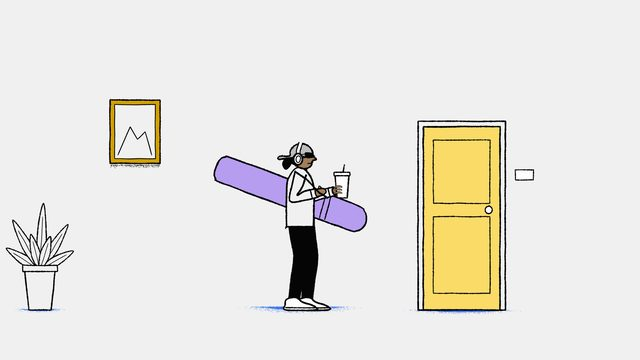
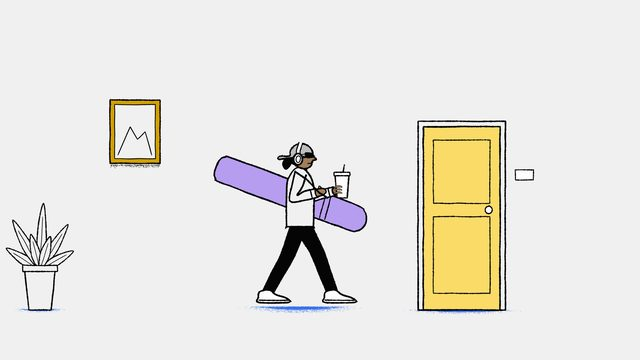
fix: walk-cycle-bag이 멈출 때 발이 바닥에서 미끄러지지 않음 (#58)
#42 검토에서 남긴 원래 문제다. 미끄러짐은 두 군데서 생겼다.
- 멈춘 뒤에도 배경이 0.33초 동안 72 px 더 흘렀다. 그래서 디딘 발 밑의 바닥이 계속 움직였다. 이제 배경은 멈춤의 첫 그림에서 함께 멈추고, 감속은 몸의 지나침 그림이 맡는다.
- 멈춤 사이 그림이 걷던 발과 모은 발을 섞어 발이 미끄러졌다. 이제 걷던 보폭 그대로 서고, 몸만 그 위로 일어선다. 마시기 동안에도 같은 보폭이다.

확인: 116–150프레임 시트에서 120프레임부터 두 발이 같은 자리다. drawings.py 73장 12/s, check_pure 1/1.

Claude-Session: https://claude.ai/code/session_01SxpfC2T1LyEk5ytvqY9P1D

Changed region(s): [[0.375, 0.6417, 0.5625, 0.8861]]

diff --git a/IBM/scenes/acting/walk-cycle-bag.html b/IBM/scenes/acting/walk-cycle-bag.html
@@ -14,14 +14,14 @@
 <script src="../../kit/props/handheld.js"></script>
 <script>
 /* 헤드폰을 쓰고 긴 가방을 멘 사람이 컵을 들고 복도를 걸어가다 노란 문 앞에서 멈춰 한 모금 마신다. 원본에 없는 창작 장면으로, 원본의 걷기(2프레임에 한 장)와 탠덤 스팟의 흐르는 배경을 한 인물의 걷기 사이클로 옮겼다. 전달하는 생각: 인물은 제자리에서 걷고 세상이 뒤로 흐른다.
-   Motion notes: travelling shot, figure fixed at x=900, 520 px tall, line 3.7 px (IB.figLine). Walk cycle = 12 drawn poses on twos, 1.0 s per two steps; each step carries the body 0.42 h, so the props scroll at 0.84 h/s = 437 px/s on ones (the drawing steps, the world glides: STYLE "카메라, 스크롤만 1프레임 단위"). Stance foot: heel strike with the toe up 0.35 rad, flat by 15% of the stance, heel peels up to 0.6 rad over the last 25%; swing foot lifts 0.085 h on a half sine. Hip is lowest at each contact and rises 0.028 h at mid-stance. The arms do not swing because both hands are busy (cup, strap): only the bag bounces, one pose behind the hip. Stop at 5.0 s on a contact pose: two in-betweens on twos, one drawing where the body carries on past the standing pose (hips and hands 16 px forward, leaning 0.08 rad, feet planted) and the standing pose while the scroll runs out over 0.33 s (outQuad, 72 px), then the bag's shake marks flicker for 4 drawings and everything holds dead still for 0.6 s. Sip: the cup dips 0.12 of the way down first (5.92 s), comes up in one in-between to the mouth at 6.08 s, held 1 s, back down in 3 drawings with one below its resting place; nothing else moves. Every drawing passes the one before it as pose.prev: the head trails the stop and the sip by one drawing. Floor = one chalk smear that stays under the feet; the wall is only what hangs on it. Three colours: the bag (#b79df0, the purple of the production still, not a film-palette colour), mustard frames, the yellow door. */
+   Motion notes: travelling shot, figure fixed at x=900, 520 px tall, line 3.7 px (IB.figLine). Walk cycle = 12 drawn poses on twos, 1.0 s per two steps; each step carries the body 0.42 h, so the props scroll at 0.84 h/s = 437 px/s on ones (the drawing steps, the world glides: STYLE "카메라, 스크롤만 1프레임 단위"). Stance foot: heel strike with the toe up 0.35 rad, flat by 15% of the stance, heel peels up to 0.6 rad over the last 25%; swing foot lifts 0.085 h on a half sine. Hip is lowest at each contact and rises 0.028 h at mid-stance. The arms do not swing because both hands are busy (cup, strap): only the bag bounces, one pose behind the hip. Stop at 5.0 s on a contact pose: two in-betweens on twos, one drawing where the body carries on past the standing pose (hips and hands 16 px forward, leaning 0.08 rad, feet planted) and the standing pose, standing in the stride she stopped in (both feet stay where the contact drawing put them, so neither slides); the scroll stops on the stop's first drawing, so the floor under the planted feet does not slide on (an earlier version let it run out 72 px, and the feet skated), and the body's overshoot carries the deceleration; then the bag's shake marks flicker for 4 drawings and everything holds dead still for 0.6 s. Sip: the cup dips 0.12 of the way down first (5.92 s), comes up in one in-between to the mouth at 6.08 s, held 1 s, back down in 3 drawings with one below its resting place; nothing else moves. Every drawing passes the one before it as pose.prev: the head trails the stop and the sip by one drawing. Floor = one chalk smear that stays under the feet; the wall is only what hangs on it. Three colours: the bag (#b79df0, the purple of the production still, not a film-palette colour), mustard frames, the yellow door. */
 const { prog, lerp } = MG;
 const F = IB.FIG, FLOOR = 930, X0 = 900;
 const WHO = { ...IB.PEOPLE.walker, h: 520, dir: 1, seed: 40 };
-const CYCLE = 1.0, STEP = 0.21 * WHO.h, SPEED = (4 * STEP) / CYCLE, STOP = 5.0, RUNOUT = 0.33;
+const CYCLE = 1.0, STEP = 0.21 * WHO.h, SPEED = (4 * STEP) / CYCLE, STOP = 5.0, SETTLE = 0.33;   // SETTLE: when the bag has swung to a stop after the feet
 
 // distance the world has scrolled by time t (ones): constant speed, then a short run-out
-const travel = (t) => (t < STOP ? SPEED * t : SPEED * STOP + SPEED * RUNOUT * 0.5 * prog(t, STOP, RUNOUT, 'outQuad'));
+const travel = (t) => SPEED * Math.min(t, STOP);   // the world stops on the stop's first drawing: a scroll that ran on would slide the floor under her planted feet
 const END = travel(99);
 
 const walkPose = (ph) => carry(IB.walk(X0, FLOOR, WHO, ph), 0);   // the cycle itself is the kit's (IB.walk); this figure only adds what it carries
@@ -34,16 +34,19 @@ function carry(p, sip) {
   p.nod = -0.16 * sip;
   return p;
 }
+// she stops in the stride she was in: both feet stay where the contact drawing put them (flat), and the body comes upright over them. Mixing to feet together would slide them along the floor.
+const F0 = IB.walk(X0, FLOOR, WHO, 0).feet.map(([x]) => [x, FLOOR - F.ankle * WHO.h, 0]);
+const standAt = () => ({ ...IB.stand(X0, FLOOR, WHO), feet: F0.map((f) => f.slice()) });
 function poseAt(t) {
   const tt = IB.twos(t);
   if (tt < STOP) return walkPose((travel(tt) / (4 * STEP)) % 1);
   // the stop: two in-betweens, then one drawing where the body carries on past the standing pose (u 1.08: hips and hands forward, feet planted) before it settles back
-  const stand = carry(IB.stand(X0, FLOOR, WHO), 0), k = IB.drawn(tt, STOP);
+  const stand = carry(standAt(), 0), k = IB.drawn(tt, STOP);
   if (k < 2) return carry(IB.poseMix(walkPose(0), stand, [0.45, 0.8][k]), 0);
-  if (k === 2) { const p = IB.stand(X0, FLOOR, WHO); p.hip = [X0 + 0.03 * WHO.h, p.hip[1] + 3]; p.lean = 0.08; return carry(p, 0); }   // the body carries on past standing: hips 16 px forward over planted feet, leaning in
+  if (k === 2) { const p = standAt(); p.hip = [X0 + 0.03 * WHO.h, p.hip[1] + 3]; p.lean = 0.08; return carry(p, 0); }   // the body carries on past standing: hips 16 px forward over planted feet, leaning in
   // the sip: the cup dips first (anticipation), comes up in one in-between, is held; on the way down it drops a little below where it rests and comes back
   const sip = tt < 6 - 1 / 12 - 1e-6 ? 0 : tt < 7.08 ? IB.inbetween([-0.12, 0.55, 1], IB.drawn(tt, 6 - 1 / 12)) : IB.inbetween([0.45, -0.08, 0], IB.drawn(tt, 7.08));
-  return carry(IB.stand(X0, FLOOR, WHO), sip);
+  return carry(standAt(), sip);
 }
 
 IB.actors = (t) => ({ walker: { ...poseAt(t), prev: poseAt(IB.twos(t) - 1 / 12) } });
@@ -78,7 +81,7 @@ MG.scene({
     // the cup in the far hand: lid, straw, and the fingers back over it
     IB.strawCup(ctx, j.hands[0], { skin: WHO.skin });
     // the bag swings to a stop: shake marks flicker for four drawings, then nothing
-    const k = IB.drawn(tt, STOP + RUNOUT);
+    const k = IB.drawn(tt, STOP + SETTLE);
     if (k >= 0 && k < 4) { IB.shake(ctx, bx + 0.46 * h, by + 0.2 * h, 16, { a: 0.5, n: 2, seed: 640 + k, w: 2.6 }); IB.shake(ctx, bx - 0.47 * h, by - 0.2 * h, 14, { a: Math.PI + 0.6, n: 2, seed: 650 + k, w: 2.6 }); }
   },
 });
